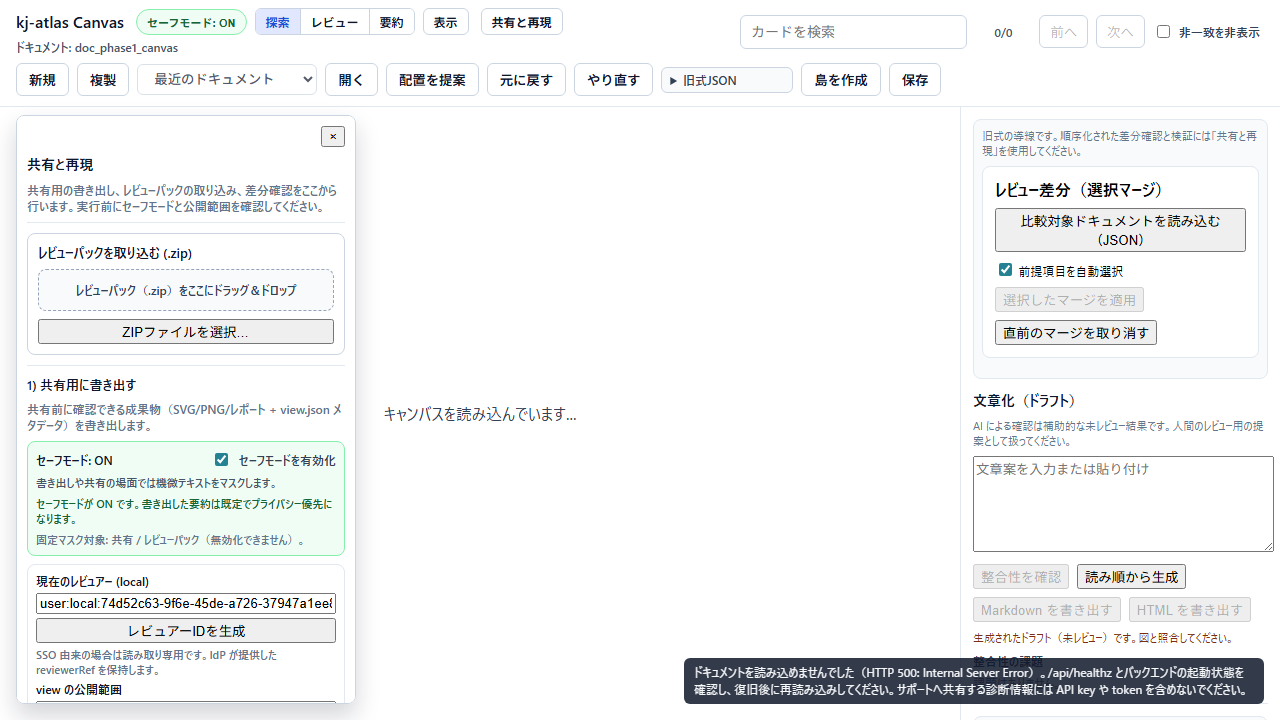
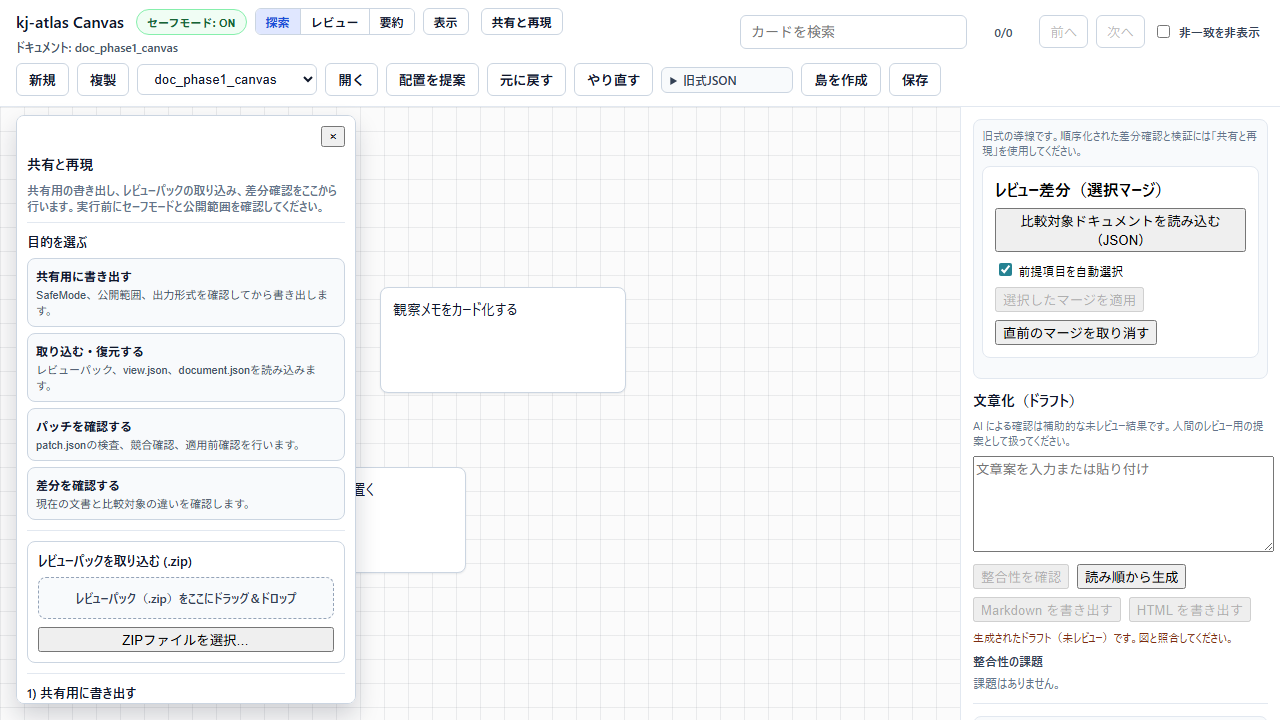
Add share panel purpose navigation

diff --git a/03_Implement/frontend/src/ui/SharePanel.tsx b/03_Implement/frontend/src/ui/SharePanel.tsx
@@ -151,6 +151,26 @@ const actionButtonStyle = {
   whiteSpace: "normal",
 } as const;
 
+const purposeGridStyle = {
+  display: "grid",
+  gridTemplateColumns: "1fr",
+  gap: 6,
+} as const;
+
+const purposeButtonStyle = {
+  ...actionButtonStyle,
+  display: "grid",
+  gap: 2,
+  width: "100%",
+  border: "1px solid #cbd5e1",
+  borderRadius: 8,
+  padding: 8,
+  backgroundColor: "#f8fafc",
+  color: "#0f172a",
+  cursor: "pointer",
+  textAlign: "left",
+} as const;
+
 function publishVisibilityLabel(value: PublishVisibility): string {
   switch (value) {
     case "Org":
@@ -164,6 +184,29 @@ function publishVisibilityLabel(value: PublishVisibility): string {
       return t("share.panel.visibility.unlisted");
   }
 }
+
+const purposeLinks = [
+  {
+    id: "share-panel-purpose-export",
+    labelKey: "share.panel.purpose.export",
+    hintKey: "share.panel.purpose.export_hint",
+  },
+  {
+    id: "share-panel-purpose-import",
+    labelKey: "share.panel.purpose.import",
+    hintKey: "share.panel.purpose.import_hint",
+  },
+  {
+    id: "share-panel-purpose-patch",
+    labelKey: "share.panel.purpose.patch",
+    hintKey: "share.panel.purpose.patch_hint",
+  },
+  {
+    id: "share-panel-purpose-diff",
+    labelKey: "share.panel.purpose.diff",
+    hintKey: "share.panel.purpose.diff_hint",
+  },
+] as const;
 
 const sharePanelLayoutCss = `
   .kj-atlas-share-panel,
@@ -344,6 +387,12 @@ export function SharePanel({
     });
   };
 
+  const handlePurposeClick = (sectionId: string) => {
+    const target = panelRef.current?.querySelector<HTMLElement>(`#${sectionId}`);
+    target?.scrollIntoView({ block: "start", behavior: "smooth" });
+    target?.focus({ preventScroll: true });
+  };
+
   const handlePanelKeyDown = (event: ReactKeyboardEvent<HTMLElement>) => {
     if (event.key === "Escape") {
       event.preventDefault();
@@ -421,6 +470,23 @@ export function SharePanel({
             <div style={{ fontSize: 12, color: "#64748b" }}>{t("share.panel.intent_hint")}</div>
           </div>
           <div style={sectionStyle}>
+            <div style={{ fontSize: 13, fontWeight: 700, color: "#0f172a" }}>{t("share.panel.purpose.section_title")}</div>
+            <div style={purposeGridStyle}>
+              {purposeLinks.map((link) => (
+                <button
+                  key={link.id}
+                  type="button"
+                  aria-controls={link.id}
+                  onClick={() => handlePurposeClick(link.id)}
+                  style={purposeButtonStyle}
+                >
+                  <span style={{ fontSize: 12, fontWeight: 700 }}>{t(link.labelKey)}</span>
+                  <span style={{ fontSize: 11, color: "#475569" }}>{t(link.hintKey)}</span>
+                </button>
+              ))}
+            </div>
+          </div>
+          <div id="share-panel-purpose-import" tabIndex={-1} style={sectionStyle}>
             <ImportPanel
               isLoading={isLoading}
               onImportZip={onImportReviewPackFile}
@@ -430,7 +496,7 @@ export function SharePanel({
             />
           </div>
 
-          <div style={sectionStyle}>
+          <div id="share-panel-purpose-export" tabIndex={-1} style={sectionStyle}>
             <div style={{ fontSize: 13, fontWeight: 700, color: "#0f172a" }}>{t("share.panel.export.section_title")}</div>
             <div style={{ fontSize: 12, color: "#64748b" }}>
               {t("share.panel.export.section_hint")}
@@ -712,7 +778,7 @@ export function SharePanel({
             ) : null}
           </div>
 
-          <div style={{ ...sectionStyle, marginBottom: 0, paddingBottom: 0, borderBottom: "none" }}>
+          <div id="share-panel-purpose-patch" tabIndex={-1} style={{ ...sectionStyle, marginBottom: 0, paddingBottom: 0, borderBottom: "none" }}>
             <div style={{ fontSize: 13, fontWeight: 700, color: "#0f172a" }}>{t("share.panel.patch.section_title")}</div>
             <div style={{ fontSize: 12, color: "#64748b" }}>
               {t("share.panel.patch.section_hint")}
@@ -1013,7 +1079,7 @@ export function SharePanel({
             )}
           </div>
 
-          <div style={{ ...sectionStyle, marginBottom: 0, paddingBottom: 0, borderBottom: "none" }}>
+          <div id="share-panel-purpose-diff" tabIndex={-1} style={{ ...sectionStyle, marginBottom: 0, paddingBottom: 0, borderBottom: "none" }}>
             <div style={{ fontSize: 13, fontWeight: 700, color: "#0f172a" }}>{t("share.panel.diff.section_title")}</div>
             <div style={{ fontSize: 12, color: "#64748b" }}>
               {t("share.panel.diff.section_hint")}

diff --git a/03_Implement/frontend/src/ui/SharePanel.test.ts b/03_Implement/frontend/src/ui/SharePanel.test.ts
@@ -89,6 +89,13 @@ describe("SharePanel safe mode copy", () => {
     const html = renderToStaticMarkup(React.createElement(SharePanel, buildProps(true)));
     expect(html).toContain("共有と再現");
     expect(html).toContain("共有用の書き出し、レビューパックの取り込み、差分確認をここから行います。");
+    expect(html).toContain("目的を選ぶ");
+    expect(html).toContain("共有用に書き出す");
+    expect(html).toContain("取り込む・復元する");
+    expect(html).toContain("パッチを確認する");
+    expect(html).toContain("差分を確認する");
+    expect(html).toContain('aria-controls="share-panel-purpose-export"');
+    expect(html).toContain('id="share-panel-purpose-import"');
     expect(html).toContain('aria-label="パネルを閉じる"');
     expect(html).toContain("セーフモード: ON");
     expect(html).toContain("セーフモードが ON です。書き出した要約は既定でプライバシー優先になります。");

diff --git a/01_Plans/issues/issue-PRODUCT-UX-03-safe-share-export-flow.md b/01_Plans/issues/issue-PRODUCT-UX-03-safe-share-export-flow.md
@@ -106,7 +106,7 @@
 - [x] T1 SharePanelの現行操作を目的別に分類する。
 - [x] T2 共有前確認のステップまたはタブ構成を設計する。
 - [ ] T3 SafeMode、公開範囲、未レビュー情報、出力形式の確認UIを追加する。
-- [ ] T4 取り込み、patch、Diff/Verifyの入口を補助または別タブとして整理する。
+- [x] T4 取り込み、patch、Diff/Verifyの入口を補助または別タブとして整理する。
 - [ ] T5 E2Eと公開文書を同期する。
 
 ## 7) 検証計画 / Validation plan
@@ -247,7 +247,7 @@
   - `ImportPanel` の取り込み結果に `公開範囲: {visibility}` を使い、画面上に残る英語ラベルを減らした。
 - Acceptance impact:
   - 「パネルの起点が取り込みだけに見えない」「SafeMode ON/OFF の警告が自然」「狭い画面で見切れない」は、本実装で証跡を追加した。
-  - T3/T4は部分進捗。共有目的別タブ、実行前プレビュー、取り込み・patch・Diff/Verify の補助導線整理は引き続き必要。
+  - T3は部分進捗。共有目的別タブと実行前プレビューは引き続き必要。
 - Evidence:
   - `node .\node_modules\vitest\vitest.mjs run src\ui\SharePanel.test.ts src\ui\ImportPanel.test.ts src\ui\safe_mode_status.test.ts src\ui\i18n_equivalence.integration.test.ts src\ui\DiffPanel.test.ts src\i18n\translate.test.ts src\i18n\catalog_integrity.test.ts src\i18n\ui_hardcode_guard.test.ts` -> 8 files / 49 tests passed.
   - `node .\node_modules\typescript\bin\tsc --noEmit` -> passed.
@@ -255,4 +255,19 @@
   - Browser measurement at `1280x720`: panel `left=16`, `right=356`, `width=340`, `scrollWidth=338`, `clientWidth=338`, `horizontalOverflow=false`, close aria label=`パネルを閉じる`。
   - Header label check: `Legacy JSON` は画面表示から消え、旧式導線は `旧式JSON` として表示される。
   - Screenshot: `04_Documentation/assets/screenshots/share-export-safe-mode.png`。
+
+## Implementation Evidence 2026-05-27: share panel purpose navigation
+
+- Scope:
+  - `SharePanel` の先頭に「目的を選ぶ」補助導線を追加し、共有用の書き出し、取り込み・復元、パッチ確認、差分確認へマウス操作で直接移動できるようにした。
+  - 目的ボタンは既存セクションを非表示にせず、`aria-controls` で対応先を示し、クリック後は対象セクションへスクロールしてフォーカスを移す。
+  - 日本語・英語カタログに目的別ラベルと説明を追加し、公開向けスクリーンショット `04_Documentation/assets/screenshots/share-export-safe-mode.png` を更新した。
+- Acceptance impact:
+  - T4を完了扱いに更新。取り込み、patch、Diff/Verify の入口がパネル上部から見えるため、実装順の長い一覧を読み下さなくても目的別に移動できる。
+  - T3は未完了。SafeMode、公開範囲、出力形式は確認できるが、共有目的別の実行前プレビューと戻る/キャンセル証跡は引き続き必要。
+- Evidence:
+  - `node .\node_modules\vitest\vitest.mjs run src\ui\SharePanel.test.ts src\i18n\catalog_integrity.test.ts src\i18n\ui_hardcode_guard.test.ts` -> 3 files / 20 tests passed.
+  - `node .\node_modules\typescript\bin\tsc --noEmit` -> passed.
+  - Browser check at `1280x720`: purpose buttons=4, panel `left=16`, `right=356`, `width=340`, `scrollWidth=338`, `clientWidth=338`, `horizontalOverflow=false`.
+  - Browser click check: `パッチを確認する` は `#share-panel-purpose-patch` へ移動し `activeElementId=share-panel-purpose-patch`、`差分を確認する` は `#share-panel-purpose-diff` へ移動し `activeElementId=share-panel-purpose-diff`。
 
